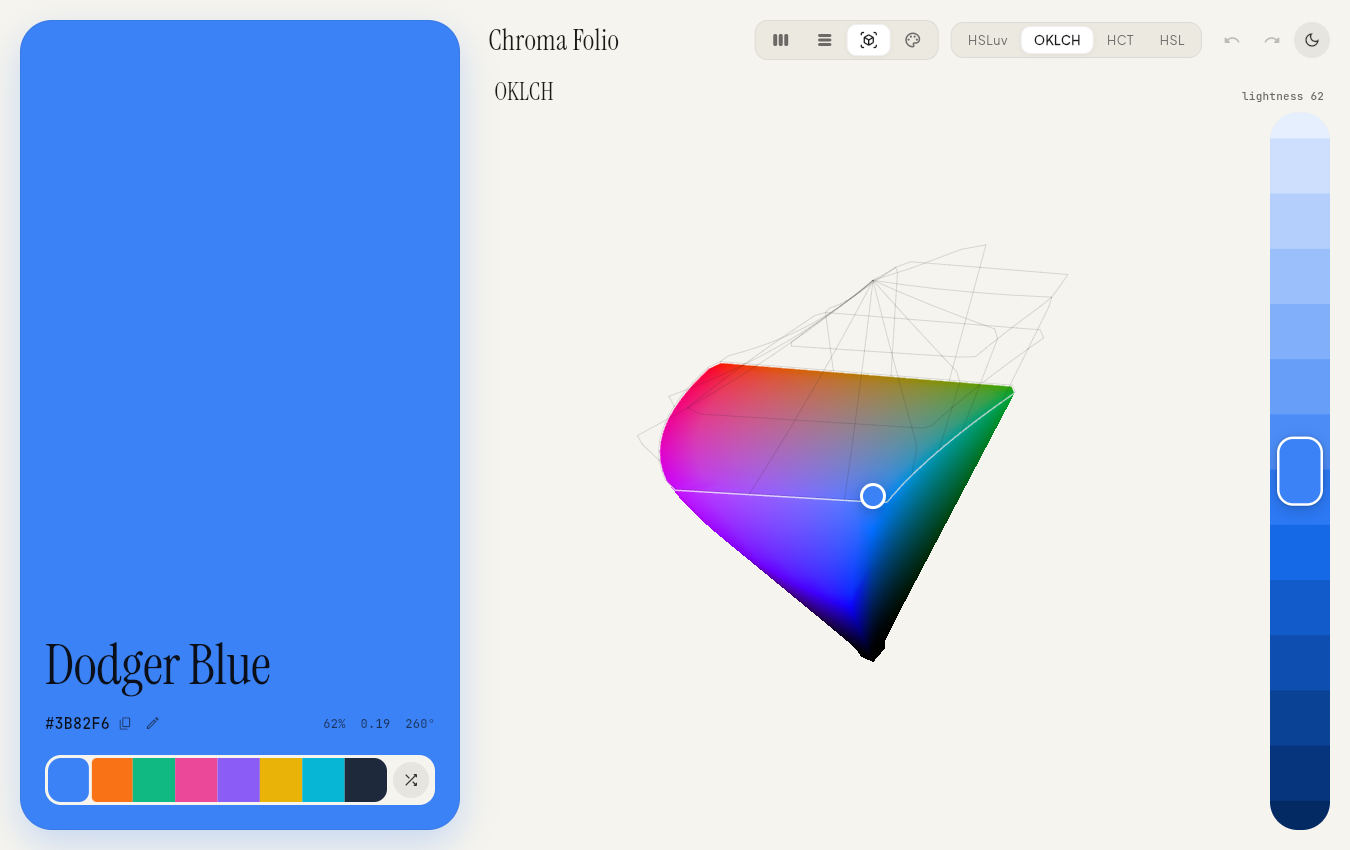
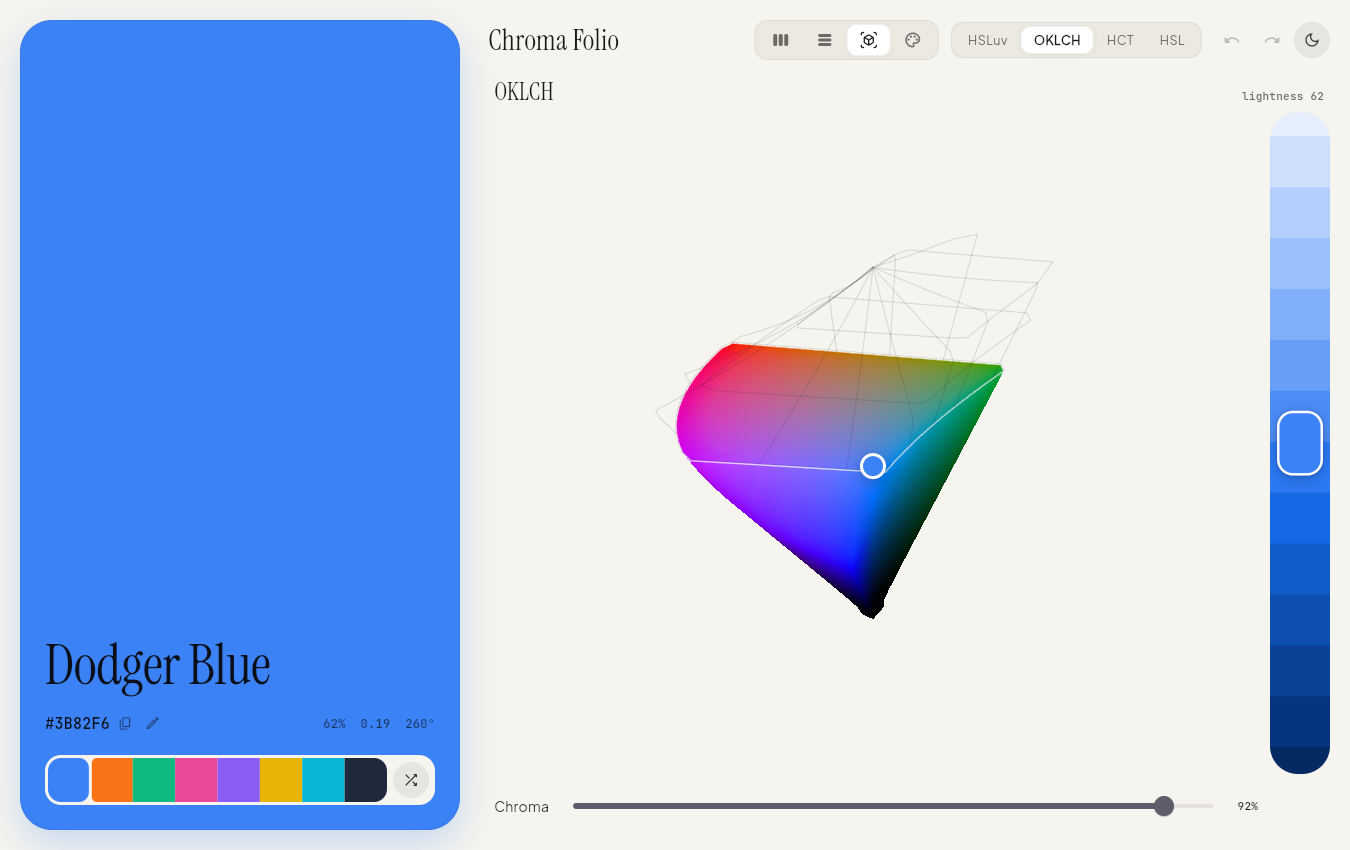
Add a saturation slider to the solid view

diff --git a/lib/screens/gamut_solid_screen.dart b/lib/screens/gamut_solid_screen.dart
@@ -158,6 +158,7 @@ class _GamutSolidScreenState extends State<GamutSolidScreen>
         final space = state.activeSpace;
         final channels = state.activeColor.channelsFor(space);
         final hue = channels[0].value;
+        final saturation = channels[1];
         final lightness = channels[2].value;
         final cached = _slice;
         final slice = cached != null && cached.matches(space, lightness)
@@ -245,6 +246,33 @@ class _GamutSolidScreenState extends State<GamutSolidScreen>
                       onScrubUpdate: (value) => _cubit.scrubChannel(2, value),
                       onScrubEnd: _cubit.endScrub,
                     ),
+                  ),
+                ],
+              ),
+            ),
+            Padding(
+              padding: const EdgeInsets.fromLTRB(6, 8, _levelReelWidth + 12, 0),
+              child: Row(
+                children: [
+                  Text(saturation.name),
+                  Expanded(
+                    child: Slider(
+                      value: saturation.value.clamp(
+                        saturation.min,
+                        saturation.max,
+                      ),
+                      min: saturation.min,
+                      max: saturation.max,
+                      semanticFormatterCallback: (value) =>
+                          '${saturation.name} ${value.round()}${saturation.unit}',
+                      onChangeStart: (_) => _cubit.beginScrub(),
+                      onChanged: (value) => _cubit.scrubChannel(1, value),
+                      onChangeEnd: (_) => _cubit.endScrub(),
+                    ),
+                  ),
+                  Text(
+                    saturation.formattedValue,
+                    style: studioMonoStyle(context, fontSize: 11),
                   ),
                 ],
               ),

diff --git a/test/widget_test.dart b/test/widget_test.dart
@@ -293,6 +293,26 @@ void main() {
       expect(cubit.state.activeColor.hsluv.lightness, lowered.lightness);
     });
 
+    testWidgets('the solid slider changes only saturation and can be undone', (
+      tester,
+    ) async {
+      final cubit = await pumpStudio(tester);
+      await tester.tap(find.byTooltip('Solid'));
+      await tester.pumpAndSettle();
+
+      final before = cubit.state.activeColor;
+      final slider = tester.getRect(find.byType(Slider));
+      await tester.tapAt(slider.centerLeft + Offset(slider.width * 0.3, 0));
+      await tester.pumpAndSettle();
+
+      final after = cubit.state.activeColor.hsluv;
+      expect(after.saturation, lessThan(before.hsluv.saturation));
+      expect(after.hue, closeTo(before.hsluv.hue, 0.01));
+      expect(after.lightness, before.hsluv.lightness);
+      cubit.undo();
+      expect(cubit.state.activeColor, before);
+    });
+
     test('chroma survives a trip to full lightness', () {
       for (final space in [ColorSpaceMode.oklch, ColorSpaceMode.hct]) {
         final start = StudioColor.fromSpace(

diff --git a/README.md b/README.md
@@ -9,7 +9,7 @@ A colour studio you can fling. Spin three colour reels, compare the same hue acr
 | Spectrum | Solid |
 | --- | --- |
 | ![Dark Spectrum view with four aligned hue strips](docs/screenshots/spectrum.png) | ![OKLCH colour solid with a horizontal cut and a lightness reel](docs/screenshots/solid.png) |
-| Fling the strips together to compare HSLuv, OKLCH, HCT, and HSL. Touch a strip to pick from its colour space. | Drag sideways to turn the solid. Move the lightness reel to raise or lower the cut, then pick a colour on the cut face. |
+| Fling the strips together to compare HSLuv, OKLCH, HCT, and HSL. Touch a strip to pick from its colour space. | Drag sideways to turn the solid. Move the lightness reel to raise or lower the cut, then pick a colour on the cut face. Use the horizontal slider to adjust saturation or chroma at the current hue and lightness. |
 
 ![Palette view with a tonal scale and four harmony previews](docs/screenshots/palette.png)
 
